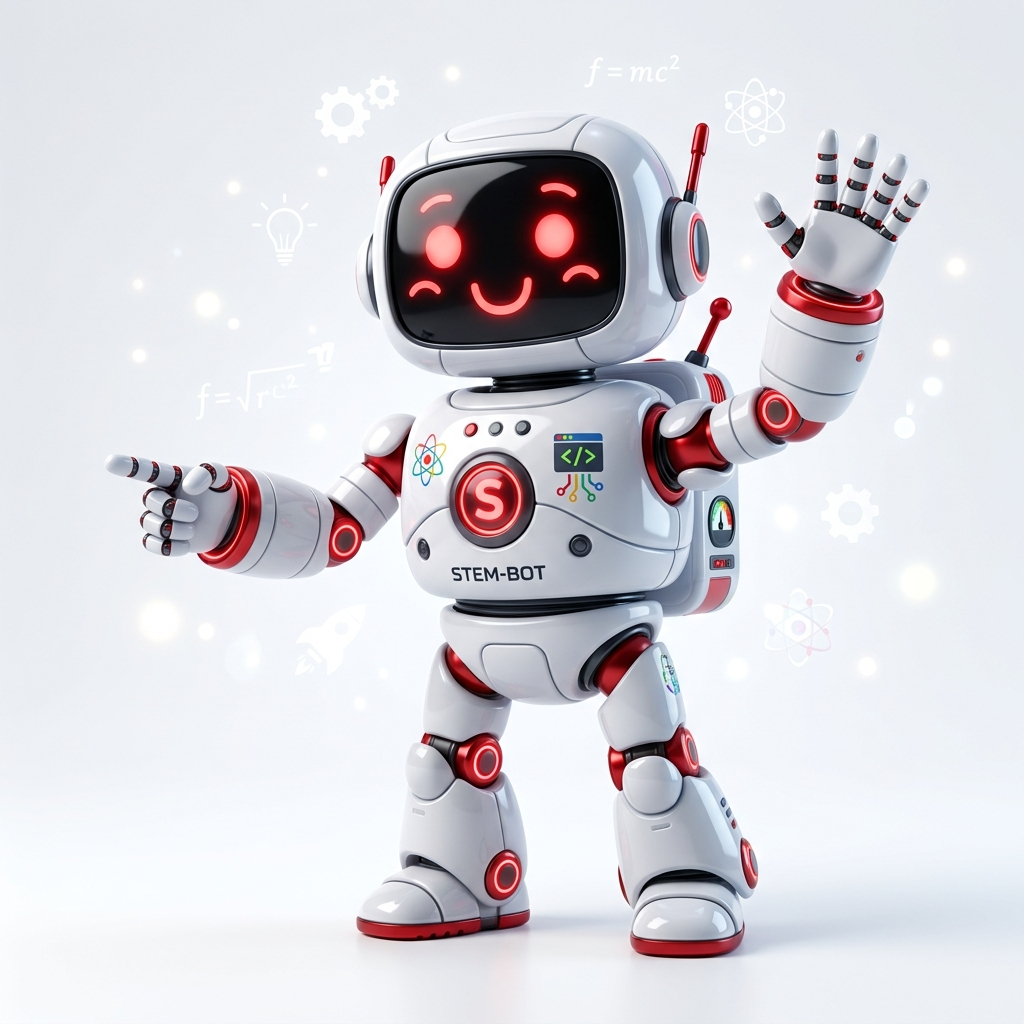
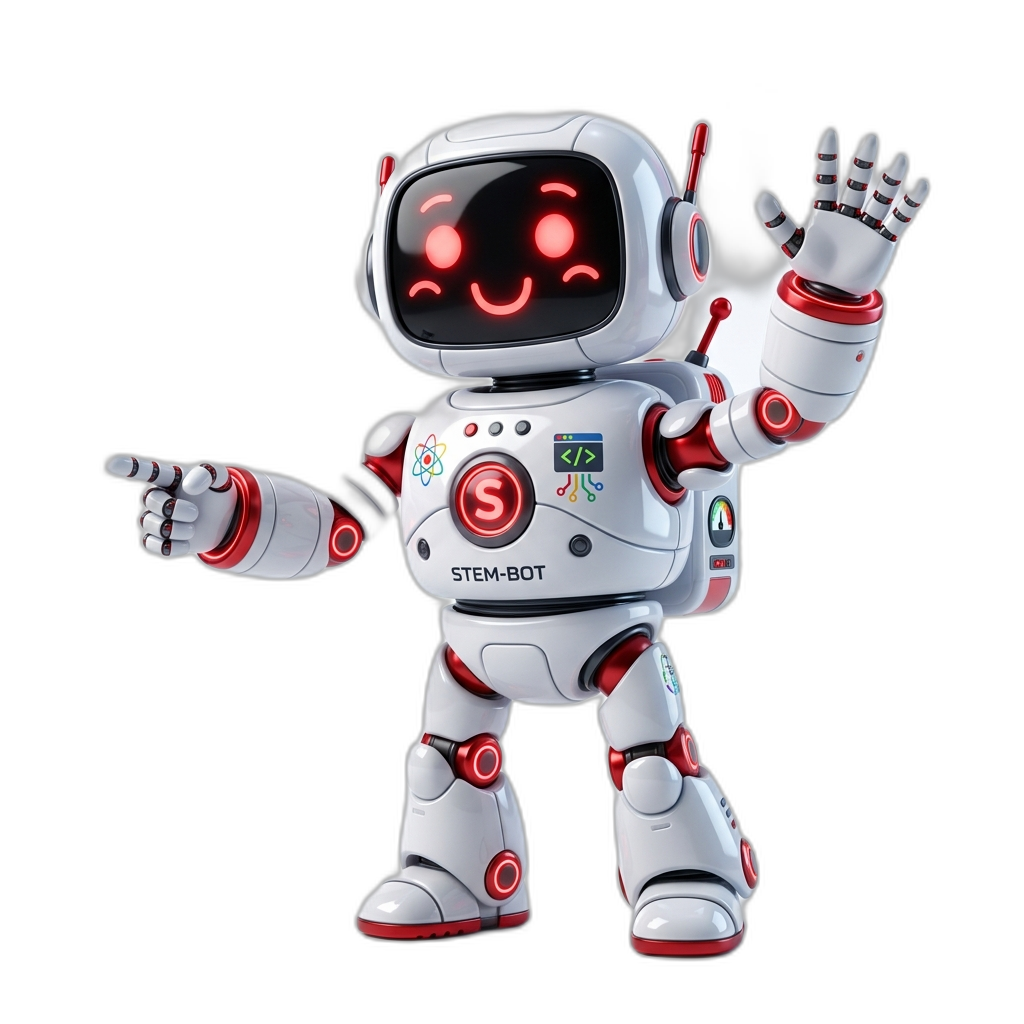
home2

diff --git a/css/style.css b/css/style.css
@@ -3226,3 +3226,185 @@ textarea.form-control {
         gap: 15px;
     }
 }
+
+/* Coding & AI Section */
+.coding-ai-section {
+    background-color: var(--bg-primary);
+    position: relative;
+    padding: 120px 0;
+    overflow: hidden;
+}
+
+/* Large rounded D-shape blue blob on the left */
+.coding-ai-blob-left {
+    position: absolute;
+    bottom: 0;
+    left: 0;
+    width: 200px;
+    height: 320px;
+    z-index: 1;
+    pointer-events: none;
+    opacity: 1;
+}
+
+.coding-ai-grid {
+    display: grid;
+    grid-template-columns: 55fr 45fr;
+    gap: 80px;
+    align-items: center;
+    max-width: 1200px;
+    margin: 0 auto;
+    position: relative;
+    z-index: 2;
+}
+
+/* Left side content */
+.coding-ai-content {
+    padding-right: 20px;
+}
+
+.coding-ai-content h2 {
+    font-family: var(--font-heading);
+    font-size: 3rem;
+    font-weight: 700;
+    line-height: 1.2;
+    color: var(--text-main);
+    margin-bottom: 24px;
+}
+
+.coding-ai-content p {
+    font-family: var(--font-body);
+    font-size: 1.15rem;
+    line-height: 1.8;
+    color: var(--text-muted);
+    margin-bottom: 36px;
+    font-weight: 500;
+    max-width: 580px;
+}
+
+/* Right side media */
+.coding-ai-media {
+    position: relative;
+    width: 100%;
+    display: flex;
+    justify-content: center;
+    align-items: center;
+    min-height: 400px;
+}
+
+.coding-ai-bg-glow {
+    position: absolute;
+    width: 500px;
+    height: 500px;
+    border-radius: 50%;
+    background: radial-gradient(circle, rgba(47, 128, 237, 0.08) 0%, transparent 70%);
+    z-index: 1;
+    pointer-events: none;
+}
+
+.coding-ai-image {
+    position: relative;
+    z-index: 2;
+    width: 100%;
+    max-width: 440px;
+    height: auto;
+    object-fit: contain;
+    filter: drop-shadow(0 20px 30px rgba(0, 0, 0, 0.08));
+}
+
+/* Outline Blue Button */
+.btn-outline-blue {
+    background-color: #FFFFFF !important;
+    border: 2px solid var(--primary-blue) !important;
+    color: var(--primary-blue) !important;
+    padding: 16px 36px;
+    border-radius: 99px !important;
+    font-weight: 700;
+    font-family: var(--font-heading);
+    font-size: 1.05rem;
+    display: inline-flex;
+    align-items: center;
+    gap: 8px;
+    box-shadow: 0 8px 20px rgba(47, 128, 237, 0.08);
+    transition: var(--transition-bounce);
+    cursor: pointer;
+}
+
+.btn-outline-blue:hover {
+    transform: translateY(-4px);
+    box-shadow: 0 12px 25px rgba(47, 128, 237, 0.2);
+    background-color: var(--primary-blue-light) !important;
+}
+
+.btn-outline-blue .btn-arrow {
+    transition: transform 0.3s ease;
+    display: inline-block;
+}
+
+.btn-outline-blue:hover .btn-arrow {
+    transform: translateX(4px);
+}
+
+/* Scroll reveal overrides for Coding & AI */
+.coding-ai-media.scroll-reveal {
+    opacity: 0;
+    transform: translateX(40px);
+    transition: opacity 1.2s cubic-bezier(0.16, 1, 0.3, 1), transform 1.2s cubic-bezier(0.16, 1, 0.3, 1);
+}
+
+.coding-ai-media.scroll-reveal.revealed {
+    opacity: 1;
+    transform: translateX(0);
+}
+
+.coding-ai-content.scroll-reveal {
+    opacity: 0;
+    transform: translateX(-40px);
+    transition: opacity 1.2s cubic-bezier(0.16, 1, 0.3, 1), transform 1.2s cubic-bezier(0.16, 1, 0.3, 1);
+}
+
+.coding-ai-content.scroll-reveal.revealed {
+    opacity: 1;
+    transform: translateX(0);
+}
+
+/* Responsive Overrides */
+@media (max-width: 992px) {
+    .coding-ai-section {
+        padding: 80px 0;
+    }
+    .coding-ai-grid {
+        grid-template-columns: 1fr;
+        gap: 50px;
+        text-align: center;
+    }
+    .coding-ai-content {
+        padding-right: 0;
+        display: flex;
+        flex-direction: column;
+        align-items: center;
+    }
+    .coding-ai-content p {
+        margin-left: auto;
+        margin-right: auto;
+    }
+    .coding-ai-image {
+        max-width: 360px;
+    }
+}
+
+@media (max-width: 576px) {
+    .coding-ai-section {
+        padding: 60px 0;
+    }
+    .coding-ai-content h2 {
+        font-size: 2.2rem;
+    }
+    .coding-ai-content p {
+        font-size: 1.05rem;
+    }
+    .coding-ai-image {
+        max-width: 300px;
+    }
+}
+

diff --git a/index.html b/index.html
@@ -218,6 +218,66 @@
             </div>
         </div>
     </section>
+    <!-- Hands-On Learning Section -->
+    <section class="coding-ai-section section-padding">
+        <!-- Yellow corner wave (bottom-right only) -->
+        <div class="hero-corner-blob-right">
+            <svg viewBox="0 0 150 150" xmlns="http://www.w3.org/2000/svg" style="width: 100%; height: 100%;">
+                <path d="M150,150 L50,150 C70,120 100,90 110,60 C120,30 140,10 150,0 Z" fill="#FDB515"/>
+            </svg>
+        </div>
+
+        <div class="container coding-ai-grid scroll-reveal">
+            <div class="coding-ai-content">
+                <h2>
+                    Hands-On <br>
+                    <span class="text-blue">Learning:</span> <br>
+                    <span class="text-red-wavy">Coding & AI</span>
+                </h2>
+                <p>Our advanced programs guide students through real-world coding, algorithm building, and artificial intelligence projects, fostering deep technical skills and problem-solving.</p>
+                <div class="coding-ai-buttons">
+                    <a href="programs.html" class="btn btn-outline-blue">View Curriculum <span class="btn-arrow">&rarr;</span></a>
+                </div>
+            </div>
+            
+            <div class="coding-ai-media">
+                <div class="coding-ai-bg-glow"></div>
+                
+                <!-- Floating Decorative Elements -->
+                <!-- 1. Yellow Circle Outline -->
+                <div style="position: absolute; top: 30%; left: -5%; width: 16px; height: 16px; border: 2.5px solid #FDB515; border-radius: 50%; opacity: 0.8; z-index: 1;"></div>
+                <!-- 2. Purple Plus Sign (left) -->
+                <div style="position: absolute; top: 40%; left: 12%; font-size: 1.8rem; color: #AF52DE; font-weight: bold; font-family: var(--font-heading); z-index: 1;">+</div>
+                <!-- 3. Orange Dot (left) -->
+                <div style="position: absolute; top: 50%; left: 0%; width: 10px; height: 10px; background-color: #FF9500; border-radius: 50%; z-index: 1;"></div>
+                <!-- 4. Green Zig-zag (bottom-left) -->
+                <div style="position: absolute; bottom: 25%; left: 0%; z-index: 1;">
+                    <svg width="35" height="15" viewBox="0 0 40 20">
+                        <path d="M0,10 L10,0 L20,10 L30,0 L40,10" fill="none" stroke="#34C759" stroke-width="4.5" stroke-linecap="round" stroke-linejoin="round"/>
+                    </svg>
+                </div>
+                <!-- 5. Red Dot (bottom-left) -->
+                <div style="position: absolute; bottom: 20%; left: 15%; width: 8px; height: 8px; background-color: #FF3B30; border-radius: 50%; z-index: 1;"></div>
+                <!-- 6. Yellow Star (right) -->
+                <div style="position: absolute; top: 50%; right: 0%; z-index: 1; color: #FDB515;">
+                    <svg width="18" height="18" viewBox="0 0 24 24" fill="currentColor">
+                        <path d="M12 17.27L18.18 21l-1.64-7.03L22 9.24l-7.19-.61L12 2 9.19 8.63 2 9.24l5.46 4.73L5.82 21z"/>
+                    </svg>
+                </div>
+                <!-- 7. Purple Plus Sign (right) -->
+                <div style="position: absolute; bottom: 25%; right: -5%; font-size: 1.8rem; color: #AF52DE; font-weight: bold; font-family: var(--font-heading); z-index: 1;">+</div>
+                <!-- 8. Green Zig-zag (top-right) -->
+                <div style="position: absolute; top: 22%; right: -6%; z-index: 1;">
+                    <svg width="35" height="15" viewBox="0 0 40 20">
+                        <path d="M0,10 L10,0 L20,10 L30,0 L40,10" fill="none" stroke="#34C759" stroke-width="4.5" stroke-linecap="round" stroke-linejoin="round"/>
+                    </svg>
+                </div>
+
+                <!-- Mascot Image -->
+                <img class="coding-ai-image" src="assets/coding-ai-robot.png" alt="Cute Robot Mascot holding a tablet with a glowing brain, surrounded by floating code, gears, and processor chip">
+            </div>
+        </div>
+    </section>
 
     <!-- Mission Section (Version 2) -->
     <section class="mission-section-v2 section-padding">